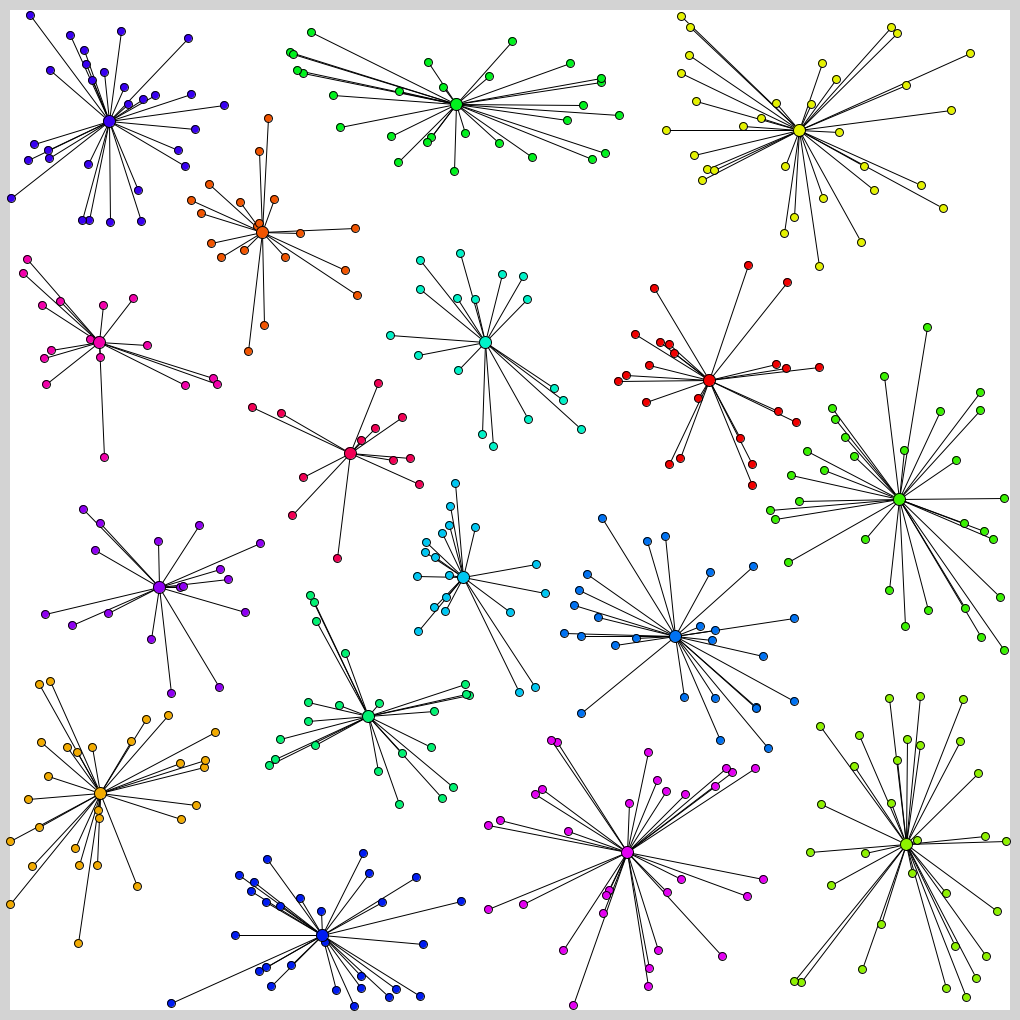
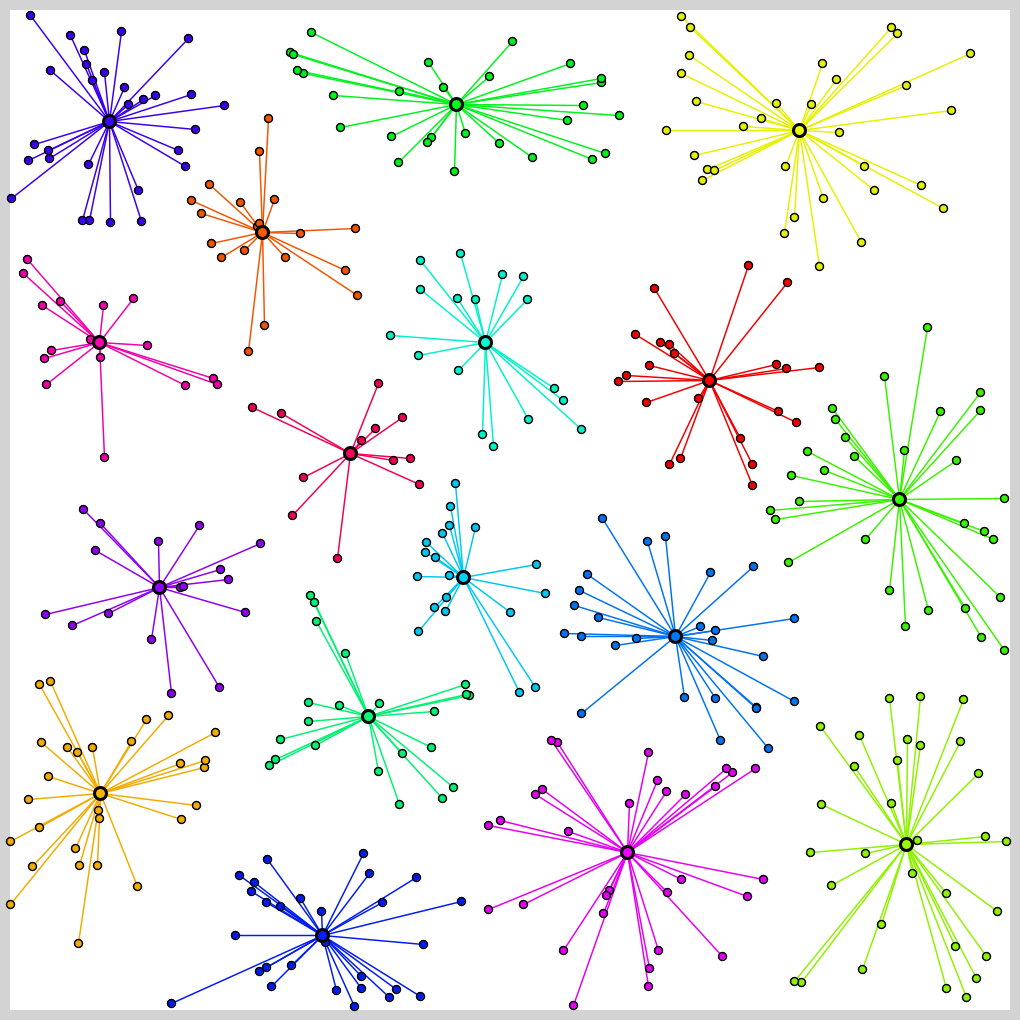
Update clustering/Visualizer.java

diff --git a/Clustering/tester/Visualizer.java b/Clustering/tester/Visualizer.java
@@ -53,6 +53,14 @@ public class Visualizer extends JFrame
     }
 
     /**
+     * int input.N               Number of vertexs.
+     * int input.K               Number of centor vertexs.
+     * int[] input.posX          The x coordinate of the vertex.
+     * int[] input.posY          The y coordinate of the vertex.
+     * int[] output.centorX      The x coordinate of the centor vertex.
+     * int[] output.centorY      The y coordinate of the centor vertex.
+     * int[] output.belongV      Centor number to which each vertex belongs.
+     * double output.score       Score
      *
      * @see InputData
      * @see OutputData
@@ -68,40 +76,38 @@ public class Visualizer extends JFrame
         g2.setColor(new Color(0xFFFFFF));
         g2.fillRect(PADDING, PADDING, FIELD_WIDTH, FIELD_HEIGHT);
 
+        /* Converts the origin of the graphics context to a 
+           point (x, y) in the current coordinate system.*/
+        g2.translate(PADDING, PADDING);
+
+        /* Draw lines */
         Color [] dotColor = new Color[input.N];
         for (int i = 0; i < input.N; i++) {
-            int idx = -1;
-            double dist = 1.0e9;
-            for (int j = 0; j < input.K; j++) {
-                int lx = Math.abs(input.posX[i] - output.centorX[j]);
-                int ly = Math.abs(input.posY[i] - output.centorY[j]);
-                double dt = Math.sqrt((double)(lx * lx + ly * ly));
-                if (dist > dt) {
-                    dist = dt;
-                    idx = j;
-                }
-            }
-
-            dotColor[i] = Color.getHSBColor((1.0f / (float)input.K) * (float)idx, 1.0f, 0.95f);
-            g2.setColor(dotColor[i]);
+            final int bidx = output.belongV[i];
+            Color c = Color.getHSBColor((1.0f / (float)input.K) * (float)bidx, 1.0f, 0.95f);
+            g2.setColor(c);
             g2.setStroke(new BasicStroke(1.5f));
-            g2.drawLine(PADDING + input.posX[i], PADDING + input.posY[i], PADDING + output.centorX[idx], PADDING + output.centorY[idx]);
+            g2.drawLine(input.posX[i], input.posY[i], output.centorX[bidx], output.centorY[bidx]);
         }
 
+        /* Draw vertexs */
+        final int R1 = 8;
         for (int i = 0; i < input.N; i++) {
-            g2.setColor(dotColor[i]);
-            g2.fillOval(input.posX[i] + 6, input.posY[i] + 6, 8, 8);
+            Color c = Color.getHSBColor((1.0f / (float)input.K) * (float)output.belongV[i], 1.0f, 0.95f);
+            g2.setColor(c);
+            g2.fillOval(input.posX[i] - R1 / 2, input.posY[i] - R1 / 2, R1, R1);
             g2.setColor(new Color(0x000000));
-            g2.drawOval(input.posX[i] + 6, input.posY[i] + 6, 8, 8);
+            g2.drawOval(input.posX[i] - R1 / 2, input.posY[i] - R1 / 2, R1, R1);
         }
 
+        final int R2 = 12;
         g2.setStroke(new BasicStroke(3.0f));
         for (int i = 0; i < input.K; i++) {
             Color c = Color.getHSBColor((1.0f / (float)input.K) * (float)i, 1.0f, 1.0f);
             g2.setColor(c);
-            g2.fillOval(output.centorX[i] + 4, output.centorY[i] + 4, 12, 12);
+            g2.fillOval(output.centorX[i] - R2 / 2, output.centorY[i] - R2 / 2, R2, R2);
             g2.setColor(new Color(0x000000));
-            g2.drawOval(output.centorX[i] + 4, output.centorY[i] + 4, 12, 12);
+            g2.drawOval(output.centorX[i] - R2 / 2, output.centorY[i] - R2 / 2, R2, R2);
         }
 
         return bi;

diff --git a/Clustering/tester/OutputData.java b/Clustering/tester/OutputData.java
@@ -5,6 +5,7 @@ public class OutputData
 {
     final int[] centorX;
     final int[] centorY;
+    final int[] belongV;
     final double score;
 
     public String getString ()
@@ -29,6 +30,25 @@ public class OutputData
             centorY[i] = sc.nextInt();
         }
 
+        /* Calculate the score. */
+        double sum = 0.0;
+        belongV = new int[input.N];
+        for (int i = 0; i < input.N; i++) {
+            int idx = -1;
+            double dist = 1.0e9;
+            for (int j = 0; j < input.K; j++) {
+                int lx = Math.abs(input.posX[i] - centorX[j]);
+                int ly = Math.abs(input.posY[i] - centorY[j]);
+                double dt = Math.sqrt((double)(lx * lx + ly * ly));
+                if (dist > dt) {
+                    dist = dt;
+                    idx = j;
+                }
+            }
+            sum += dist;
+            belongV[i] = idx;
+        }
+
         /* Check whether the output satisfies the constraints. */
         boolean [][] used = new boolean[input.WIDTH][input.HEIGHT];
         for (int i = 0; i < input.K; i++) {
@@ -44,19 +64,7 @@ public class OutputData
             }
             used[centorX[i]][centorY[i]] = true;
         }
-
-        /* Calculate the score. */
-        double sum = 0.0;
-        for (int i = 0; i < input.N; i++) {
-            double dist = 1.0e9;
-            for (int j = 0; j < input.K; j++) {
-                int lx = Math.abs(input.posX[i] - centorX[j]);
-                int ly = Math.abs(input.posY[i] - centorY[j]);
-                double dt = Math.sqrt((double)(lx * lx + ly * ly));
-                dist = Math.min(dist, dt);
-            }
-            sum += dist;
-        }
+        
         score = sum;
     }
 }
